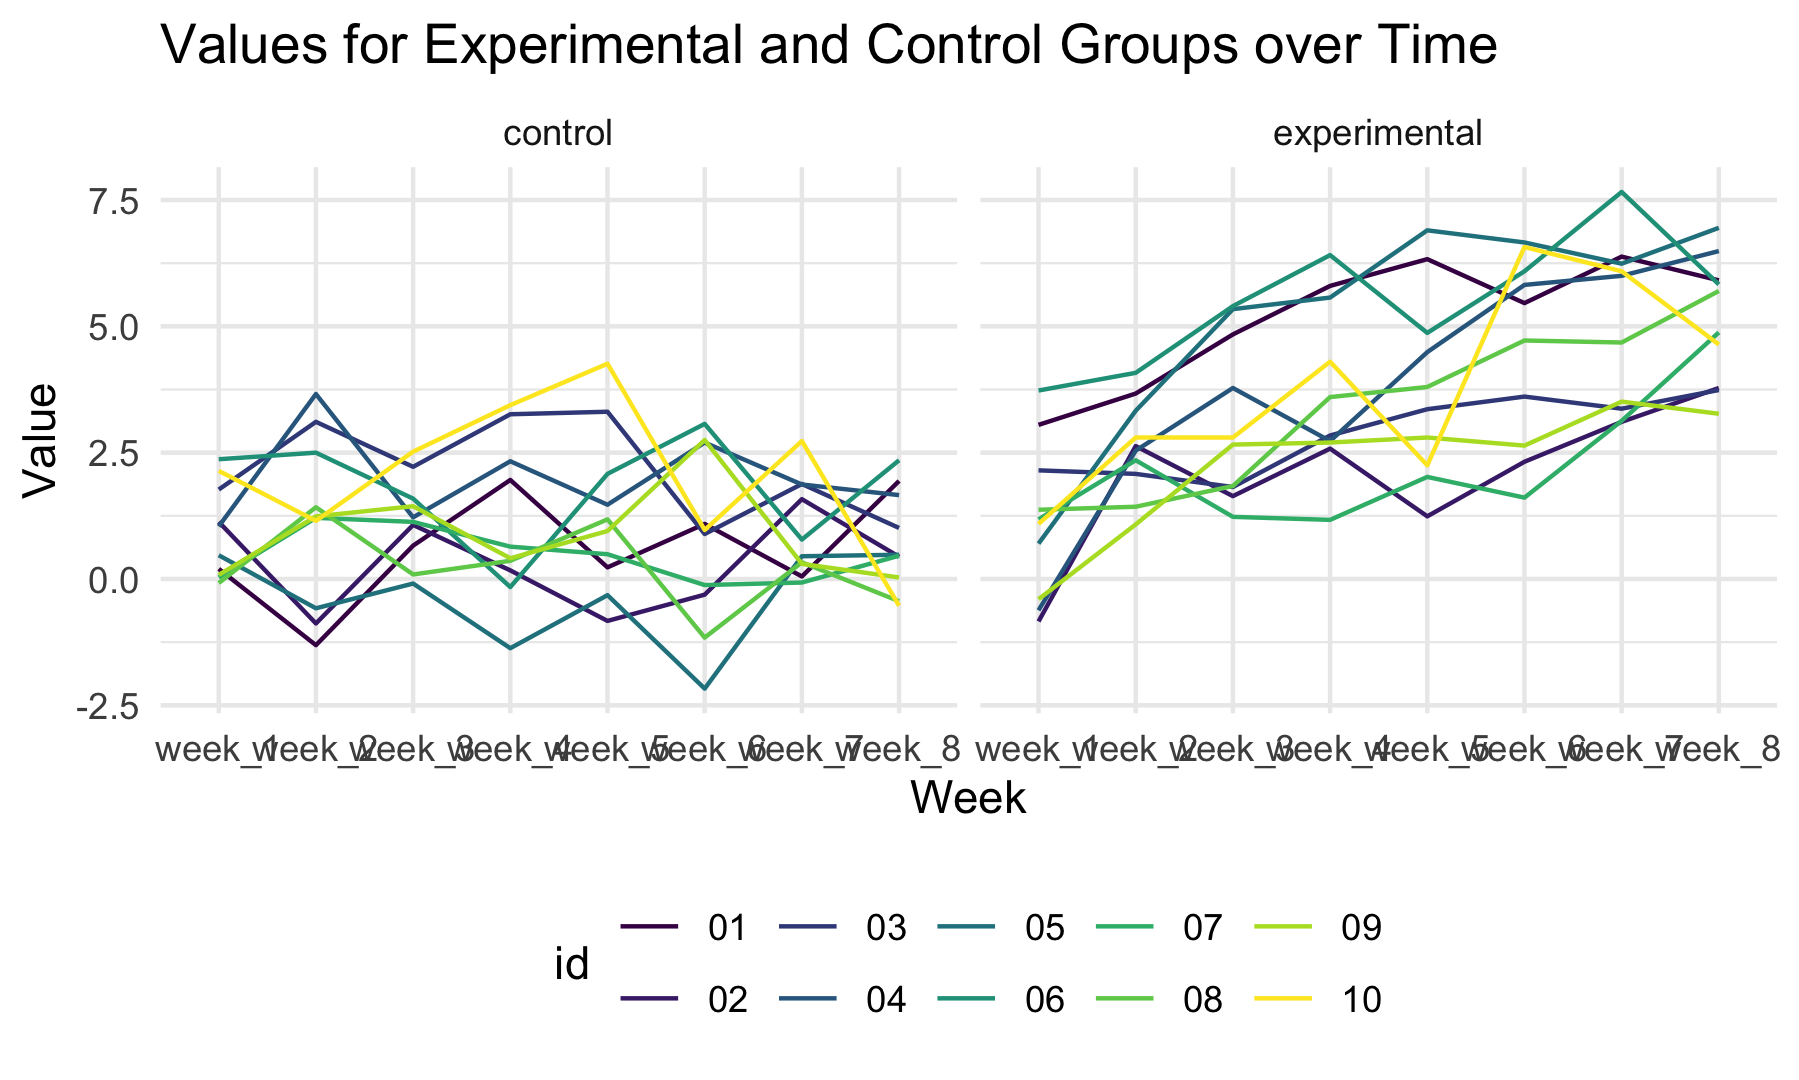
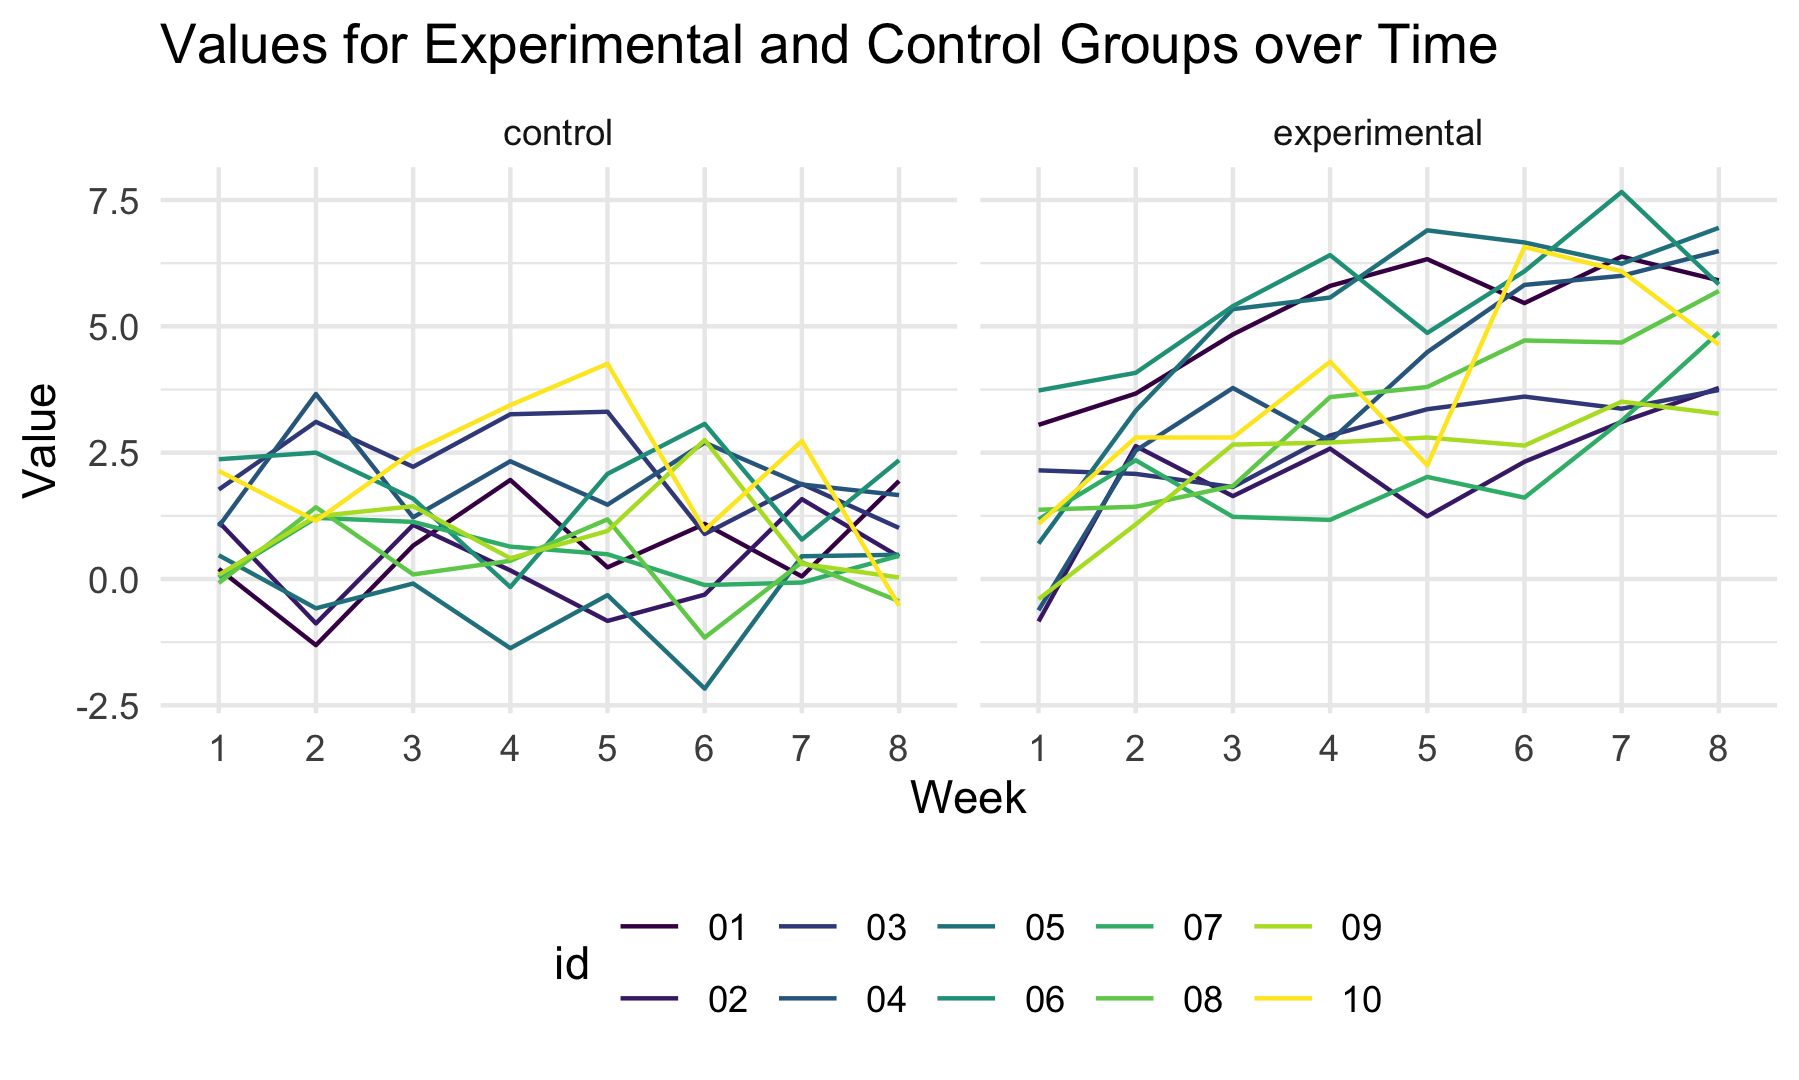
Worked on missing value function

Changed region(s): [[0.0934, 0.6722, 0.9961, 0.7028]]

diff --git a/p8105_hw5_mjn2142.md b/p8105_hw5_mjn2142.md
@@ -72,6 +72,19 @@ tidied_nest_data = nest_long_study_data %>%
 spaghetti_plot = tidied_nest_data %>% 
   unnest(data) %>% 
   pivot_longer(week_1:week_8, names_to = "week", values_to = "value") %>% 
+  mutate(
+    week = recode(
+      week,
+      "week_1" = "1",
+      "week_2" = "2",
+      "week_3" = "3",
+      "week_4" = "4",
+      "week_5" = "5",
+      "week_6" = "6",
+      "week_7" = "7",
+      "week_8" = "8"
+    )
+  ) %>% 
   ggplot(aes(x = week, y = value, group = id, color = id)) +
   geom_line() +
   facet_grid(. ~ group) +
@@ -93,3 +106,81 @@ knitr::include_graphics("spaghetti_plot.png")
 <img src="spaghetti_plot.png" width="90%" />
 
 ### Problem 3
+
+## Loading Iris Dataset
+
+``` r
+set.seed(10)
+
+iris_with_missing = iris %>% 
+  map_df(~replace(.x, sample(1:150, 20), NA)) %>%
+  mutate(Species = as.character(Species))
+```
+
+## Function to Fill in Missing Values
+
+``` r
+missing_fill_func = function(x) {
+  
+  if(is.numeric(x)) {
+    
+    x = ifelse(is.na(x), mean(x, na.rm = TRUE), x)
+    
+    }
+  
+  if(is.character(x)) {
+    
+    x = ifelse(is.na(x), "virginica", x)
+    
+  }
+  
+  return(x)
+  
+}
+```
+
+``` r
+missing_fill_func(iris_with_missing$Sepal.Length)
+```
+
+    ##   [1] 5.100000 4.900000 4.700000 4.600000 5.000000 5.400000 5.819231 5.000000
+    ##   [9] 4.400000 4.900000 5.400000 4.800000 5.819231 4.300000 5.819231 5.700000
+    ##  [17] 5.400000 5.100000 5.700000 5.100000 5.400000 5.100000 4.600000 5.819231
+    ##  [25] 4.800000 5.000000 5.000000 5.200000 5.819231 4.700000 4.800000 5.400000
+    ##  [33] 5.200000 5.500000 4.900000 5.000000 5.500000 4.900000 4.400000 5.100000
+    ##  [41] 5.000000 4.500000 4.400000 5.000000 5.100000 4.800000 5.100000 4.600000
+    ##  [49] 5.300000 5.000000 7.000000 6.400000 6.900000 5.500000 6.500000 5.700000
+    ##  [57] 6.300000 4.900000 6.600000 5.200000 5.000000 5.900000 6.000000 6.100000
+    ##  [65] 5.600000 6.700000 5.600000 5.800000 6.200000 5.600000 5.900000 5.819231
+    ##  [73] 6.300000 5.819231 6.400000 6.600000 6.800000 6.700000 6.000000 5.700000
+    ##  [81] 5.500000 5.819231 5.800000 6.000000 5.400000 5.819231 6.700000 5.819231
+    ##  [89] 5.600000 5.500000 5.500000 5.819231 5.800000 5.000000 5.819231 5.700000
+    ##  [97] 5.700000 6.200000 5.100000 5.700000 6.300000 5.800000 7.100000 6.300000
+    ## [105] 6.500000 7.600000 4.900000 7.300000 6.700000 5.819231 6.500000 5.819231
+    ## [113] 6.800000 5.700000 5.800000 6.400000 6.500000 7.700000 7.700000 6.000000
+    ## [121] 5.819231 5.600000 7.700000 6.300000 6.700000 7.200000 6.200000 6.100000
+    ## [129] 6.400000 7.200000 7.400000 7.900000 6.400000 5.819231 6.100000 5.819231
+    ## [137] 5.819231 6.400000 6.000000 6.900000 6.700000 6.900000 5.819231 6.800000
+    ## [145] 6.700000 6.700000 6.300000 6.500000 5.819231 5.900000
+
+``` r
+iris_with_missing %>% 
+  mutate(
+    Sepal.Length = map_dbl(Sepal.Length, missing_fill_func)
+    )
+```
+
+    ## # A tibble: 150 × 5
+    ##    Sepal.Length Sepal.Width Petal.Length Petal.Width Species
+    ##           <dbl>       <dbl>        <dbl>       <dbl> <chr>  
+    ##  1          5.1         3.5          1.4         0.2 setosa 
+    ##  2          4.9         3            1.4         0.2 setosa 
+    ##  3          4.7         3.2          1.3         0.2 setosa 
+    ##  4          4.6         3.1          1.5        NA   setosa 
+    ##  5          5           3.6          1.4         0.2 setosa 
+    ##  6          5.4         3.9          1.7         0.4 setosa 
+    ##  7        NaN           3.4          1.4         0.3 setosa 
+    ##  8          5           3.4          1.5         0.2 setosa 
+    ##  9          4.4         2.9          1.4         0.2 setosa 
+    ## 10          4.9         3.1         NA           0.1 setosa 
+    ## # … with 140 more rows
